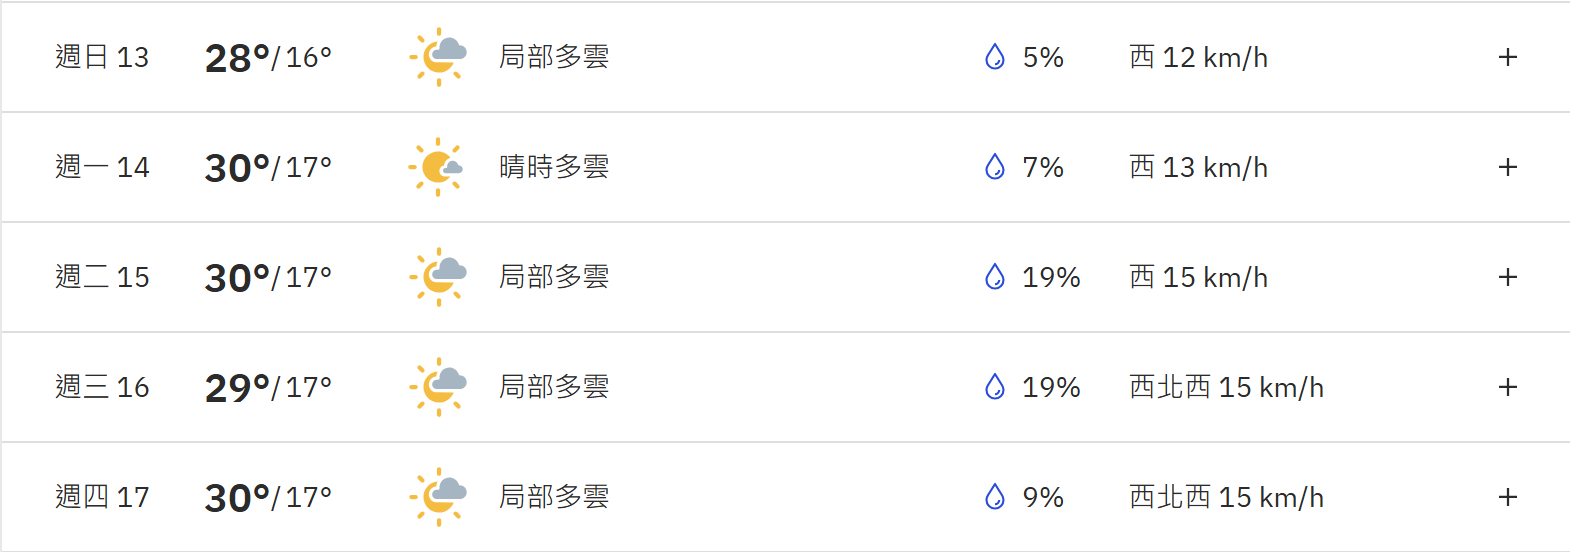
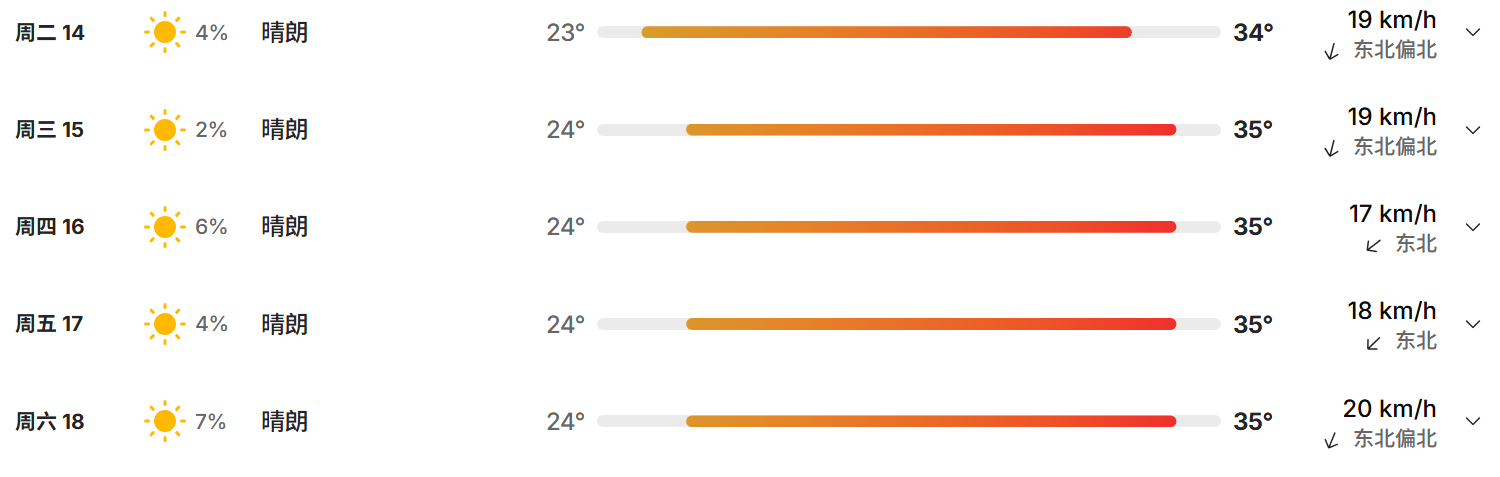
Update weather images

diff --git a/assets/styles-v2.css b/assets/styles-v2.css
@@ -11,7 +11,7 @@
 .phrase-grid,.sign-grid{display:grid;grid-template-columns:repeat(3,minmax(0,1fr));gap:10px}.phrase-card{padding:18px}.phrase-card strong{display:block;margin-bottom:7px}.phrase-card span{color:var(--blue);font-size:14px;line-height:1.5}
 details{margin-top:12px;overflow:clip}summary{position:relative;padding:20px 48px 20px 22px;cursor:pointer;list-style:none;font-size:16px;font-weight:700}summary::-webkit-details-marker{display:none}summary::after{content:"+";position:absolute;right:21px;top:17px;color:var(--blue);font-size:24px;font-weight:400}details[open] summary::after{content:"−"}.details-body{padding:0 22px 22px;border-top:1px solid var(--line)}.details-body>p:first-child,.details-body>ul:first-child{margin-top:18px}.details-body p{color:var(--muted)}.check-grid{display:grid;grid-template-columns:repeat(2,minmax(0,1fr));gap:8px;margin-top:16px}.check-row{min-height:68px;display:grid;grid-template-columns:24px minmax(0,1fr);gap:11px;align-items:start;padding:14px;cursor:pointer}.check-row input{width:18px;height:18px;margin:2px 0 0;accent-color:var(--blue)}.check-row strong{display:block;margin-bottom:3px;font-size:14px}.check-row span{color:var(--muted);font-size:12px;line-height:1.45}.note{margin:14px 0 0;padding:14px 16px;border-left:3px solid var(--gold);color:#5d4a24;background:#fff9e9;font-size:13px;line-height:1.6}
 .segment{width:fit-content;display:flex;gap:4px;margin-bottom:18px;padding:4px;border:1px solid var(--line);border-radius:999px;background:rgba(255,255,255,.7)}.segment-button{min-width:130px;border:0;background:transparent}.transport-panel{min-height:430px;padding:30px;border:1px solid var(--line);border-radius:8px;background:var(--paper)}.transport-panel h3{margin-bottom:8px;font-size:28px}.transport-panel>p{max-width:760px;color:var(--muted)}.transport-grid{display:grid;grid-template-columns:repeat(2,minmax(0,1fr));gap:12px;margin-top:24px}.transport-block{padding:20px;border-top:2px solid var(--blue);background:#f7f9fb}.transport-block h4{margin:0 0 10px;font-size:16px}.transport-block p,.transport-block li{color:#55555a;font-size:13px}.transport-block p{margin-bottom:0}
-.weather-grid{display:grid;grid-template-columns:repeat(2,minmax(0,1fr));gap:18px}.weather-item{margin:0;overflow:hidden;border-radius:8px;background:var(--paper);border:1px solid var(--line)}.weather-item img{width:100%;aspect-ratio:1570/552;object-fit:cover}.weather-item figcaption{padding:15px 18px;color:var(--muted);font-size:13px}.weather-item strong{display:block;margin-bottom:3px;color:var(--ink);font-size:15px}
+.weather-grid{display:grid;grid-template-columns:repeat(2,minmax(0,1fr));gap:18px}.weather-item{margin:0;overflow:hidden;border-radius:8px;background:var(--paper);border:1px solid var(--line)}.weather-item img{display:block;width:100%;height:auto;object-fit:contain;background:#fff}.weather-item figcaption{padding:15px 18px;color:var(--muted);font-size:13px}.weather-item strong{display:block;margin-bottom:3px;color:var(--ink);font-size:15px}
 .weather-image-trigger{position:relative;width:100%;display:block;margin:0;padding:0;border:0;background:#e9e9eb;cursor:zoom-in;overflow:hidden;text-align:left}.weather-image-trigger:focus-visible{outline:3px solid rgba(23,104,178,.42);outline-offset:-4px}.weather-image-trigger:active img{transform:scale(1.025)}
 .phone-grid{display:grid;grid-template-columns:repeat(4,minmax(0,1fr));gap:10px}.phone-card{min-height:170px;display:flex;flex-direction:column;padding:18px}.phone-number{margin-bottom:8px;color:var(--blue);font-size:27px;font-weight:750}.phone-card h3{margin-bottom:6px;font-size:15px}.phone-card p{flex:1;margin-bottom:14px;color:var(--muted);font-size:12px;line-height:1.5}.call-link{display:inline-flex;align-items:center;justify-content:center;gap:7px;min-height:38px;border-radius:999px;color:#fff;background:var(--blue);text-decoration:none;font-size:13px;font-weight:700}.call-link img{width:15px;height:15px;filter:brightness(0) invert(1)}
 .locked{margin-top:24px;padding:24px;border:1px solid rgba(123,35,80,.22);border-radius:8px;background:#fffafb}.locked h3{display:flex;align-items:center;gap:9px;margin-bottom:7px}.locked p{color:var(--muted);font-size:13px}.password-row{display:flex;flex-wrap:wrap;gap:9px}.password-row input{min-width:220px;flex:1;min-height:44px;border:1px solid var(--line);border-radius:8px;padding:0 13px;background:#fff}.button{min-height:44px;border:0;border-radius:999px;padding:0 18px;color:#fff;background:var(--ink);cursor:pointer;font-weight:700}.button.secondary{color:var(--ink);background:#e8e8ed}.error{min-height:20px;margin:9px 0 0;color:var(--danger)!important}.table-wrap{margin-top:16px;overflow-x:auto}table{width:100%;border-collapse:collapse;min-width:700px;font-size:13px}th,td{padding:12px 10px;border-bottom:1px solid var(--line);text-align:left;vertical-align:middle}th{color:var(--muted);font-weight:650;background:#f7f7f8}
@@ -259,8 +259,8 @@ details[open] summary::after{transform:rotate(180deg)}
 .image-viewer.is-closing{opacity:0;transition-duration:180ms}
 .image-viewer-dialog{position:relative;width:min(1040px,100%)}
 .image-viewer-figure{margin:0;overflow:hidden;border:1px solid rgba(255,255,255,.78);border-radius:32px;background:rgba(255,255,255,.86);box-shadow:0 36px 110px rgba(0,0,0,.28),inset 0 1px 0 rgba(255,255,255,.92)}
-.image-viewer-photo{position:relative;aspect-ratio:1.9/1;overflow:hidden;background:#e9e9eb;transform-origin:center center}.image-viewer-photo::before{content:"正在加载地图截图...";position:absolute;inset:0;display:grid;place-items:center;color:var(--muted);font-size:15px;font-weight:700;background:linear-gradient(120deg,#eceef2,#f7f8fa,#eceef2);background-size:220% 100%;opacity:0;transition:opacity .18s ease-out;animation:imageLoading 1.2s linear infinite}.image-viewer.is-loading .image-viewer-photo::before{opacity:1}.image-viewer.is-loading .image-viewer-photo img{opacity:0}@keyframes imageLoading{to{background-position:-220% 0}}
-.image-viewer-photo img{width:100%;height:100%;object-fit:cover;opacity:1;transition:opacity .18s ease-out}
+.image-viewer-photo{position:relative;aspect-ratio:1.9/1;overflow:hidden;background:#e9e9eb;transform-origin:center center}.image-viewer-photo::before{content:"正在加载图片...";position:absolute;inset:0;display:grid;place-items:center;color:var(--muted);font-size:15px;font-weight:700;background:linear-gradient(120deg,#eceef2,#f7f8fa,#eceef2);background-size:220% 100%;opacity:0;transition:opacity .18s ease-out;animation:imageLoading 1.2s linear infinite}.image-viewer.is-loading .image-viewer-photo::before{opacity:1}.image-viewer.is-loading .image-viewer-photo img{opacity:0}@keyframes imageLoading{to{background-position:-220% 0}}
+.image-viewer-photo img{width:100%;height:100%;object-fit:contain;opacity:1;transition:opacity .18s ease-out;background:#fff}
 .image-viewer-figure figcaption{display:flex;align-items:baseline;justify-content:space-between;gap:24px;padding:20px 24px 22px}
 .image-viewer-figure figcaption strong{font-size:20px}.image-viewer-figure figcaption span{color:var(--muted);font-size:14px;text-align:right}
 .image-viewer-close{position:absolute;right:14px;top:14px;z-index:2;width:44px;height:44px;border:1px solid rgba(255,255,255,.78);border-radius:50%;color:#1d1d1f;background:rgba(255,255,255,.78);box-shadow:0 8px 26px rgba(0,0,0,.16);backdrop-filter:saturate(150%) blur(16px);-webkit-backdrop-filter:saturate(150%) blur(16px);cursor:pointer;font-size:28px;line-height:1;transition:transform var(--motion-base) var(--ease-enter),background-color var(--motion-fast) ease-out}

diff --git a/index.html b/index.html
@@ -6,7 +6,7 @@
   <meta name="theme-color" content="#f5f5f7">
   <title>千载同希随行导览</title>
   <link rel="preload" as="image" href="assets/visuals/hero-greece-apple-1200.webp" type="image/webp" fetchpriority="high">
-  <link rel="stylesheet" href="assets/styles-v2.css?v=22">
+  <link rel="stylesheet" href="assets/styles-v2.css?v=23">
   <link rel="stylesheet" href="assets/visual-v8.css?v=1">
   <link rel="stylesheet" href="assets/visual-v9.css?v=3">
 </head>
@@ -66,7 +66,7 @@
   <div class="search-overlay" id="searchOverlay" aria-hidden="true"><aside class="search-panel" role="dialog" aria-modal="true" aria-labelledby="searchTitle"><div class="search-head"><h2 id="searchTitle">快速检索</h2><button class="close-search" id="closeSearch" type="button" aria-label="关闭搜索">×</button></div><p style="color:var(--muted);font-size:13px">想找什么，直接输入。亲属紧急联系人不会进入搜索。</p><div class="search-box"><input id="searchInput" type="search" placeholder="例如：护照、5日票、166、克诺索斯"><button class="button" id="searchButton" type="button">搜索</button></div><div class="search-results" id="searchResults"></div></aside></div>
   <div class="research-view" id="researchView" aria-hidden="true"><div class="research-view-bg" id="researchViewBg" aria-hidden="true"></div><article class="research-view-panel" role="dialog" aria-modal="true" aria-labelledby="researchViewTitle"><button class="research-return" id="closeResearchView" type="button" aria-label="返回调研列表">返回</button><header class="research-view-hero" id="researchViewHero"><span class="research-kicker" id="researchViewKicker"></span><h2 id="researchViewTitle"></h2><p id="researchViewTopic"></p><small id="researchViewLocation"></small></header><div class="research-view-body" id="researchViewBody"></div></article></div>
   <div class="image-viewer" id="imageViewer" aria-hidden="true"><div class="image-viewer-dialog" role="dialog" aria-modal="true" aria-labelledby="imageViewerTitle"><button class="image-viewer-close" id="closeImageViewer" type="button" aria-label="关闭酒店图片">×</button><figure class="image-viewer-figure"><div class="image-viewer-photo"><img id="imageViewerImage" src="" alt=""></div><figcaption><strong id="imageViewerTitle"></strong><span id="imageViewerAddress"></span></figcaption></figure></div></div>
-  <script src="assets/app-v10.js?v=22"></script>
+  <script src="assets/app-v10.js?v=23"></script>
 </body>
 </html>
 
